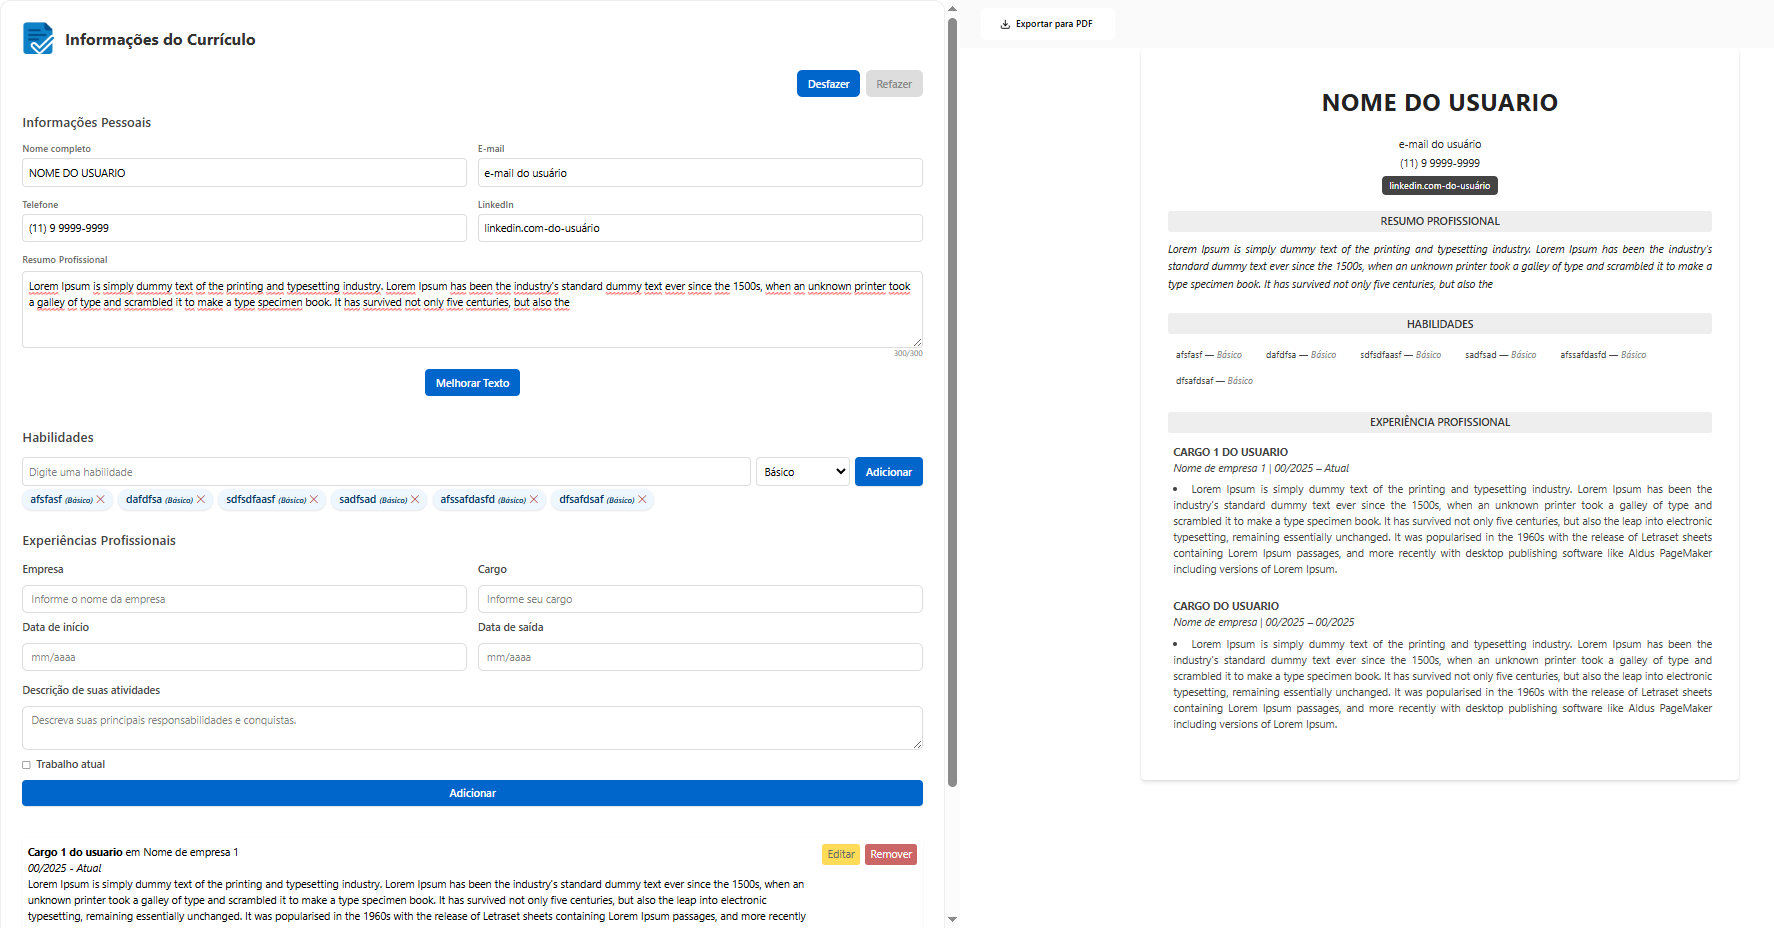
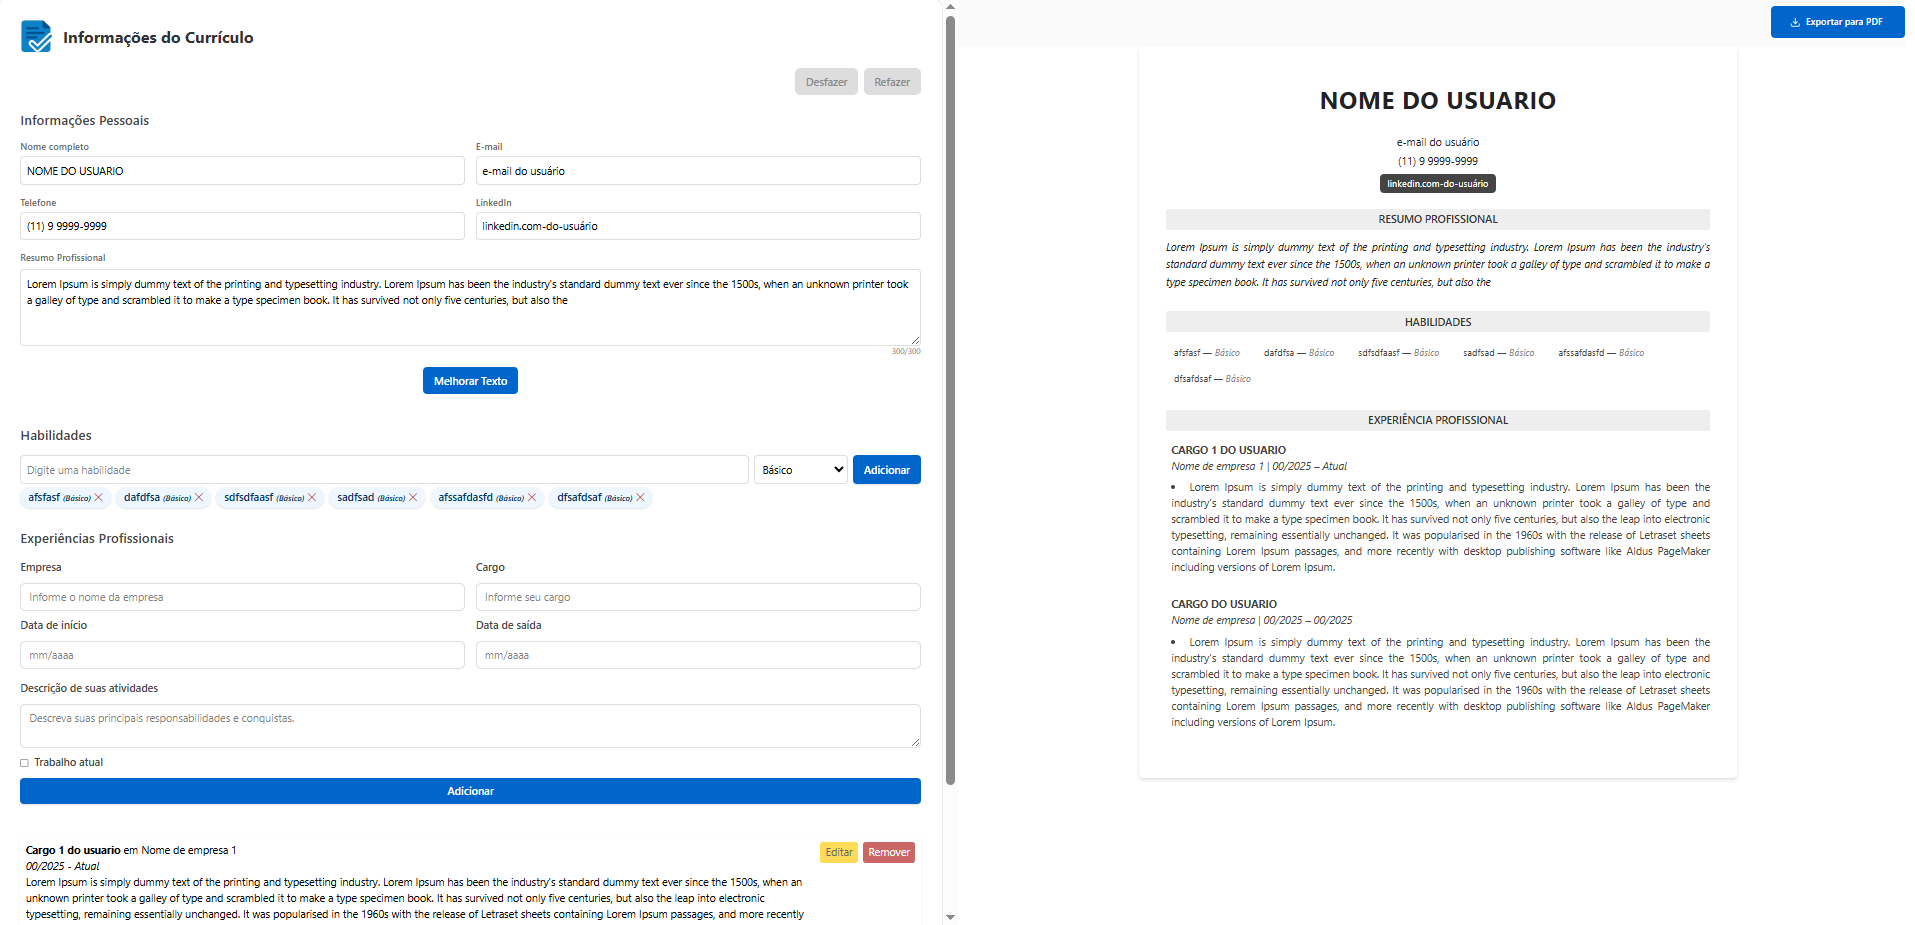
feat: inclusão de imagem de preview do site e update no botão de exportar PDF

diff --git a/src/components/Layout/PreviewSection.tsx b/src/components/Layout/PreviewSection.tsx
@@ -6,7 +6,7 @@ export default function PreviewSection() {
   return (
     <section>
       {/* Botão de exportação em PDF */}
-      <div className="py-3 px-193 bg-gray-50">
+      <div className="flex justify-end py-3 mr-5 bg-gray-50">
         <div className="w-50 rounded-md bg-blue-500 py-1 px-3 text-white hover:bg-blue-600"><ExportButton /></div>
       </div>
       <div id="cv-preview-section" className="flex-1 p-10 bg-white max-w-4xl mx-auto shadow-md rounded-md">
